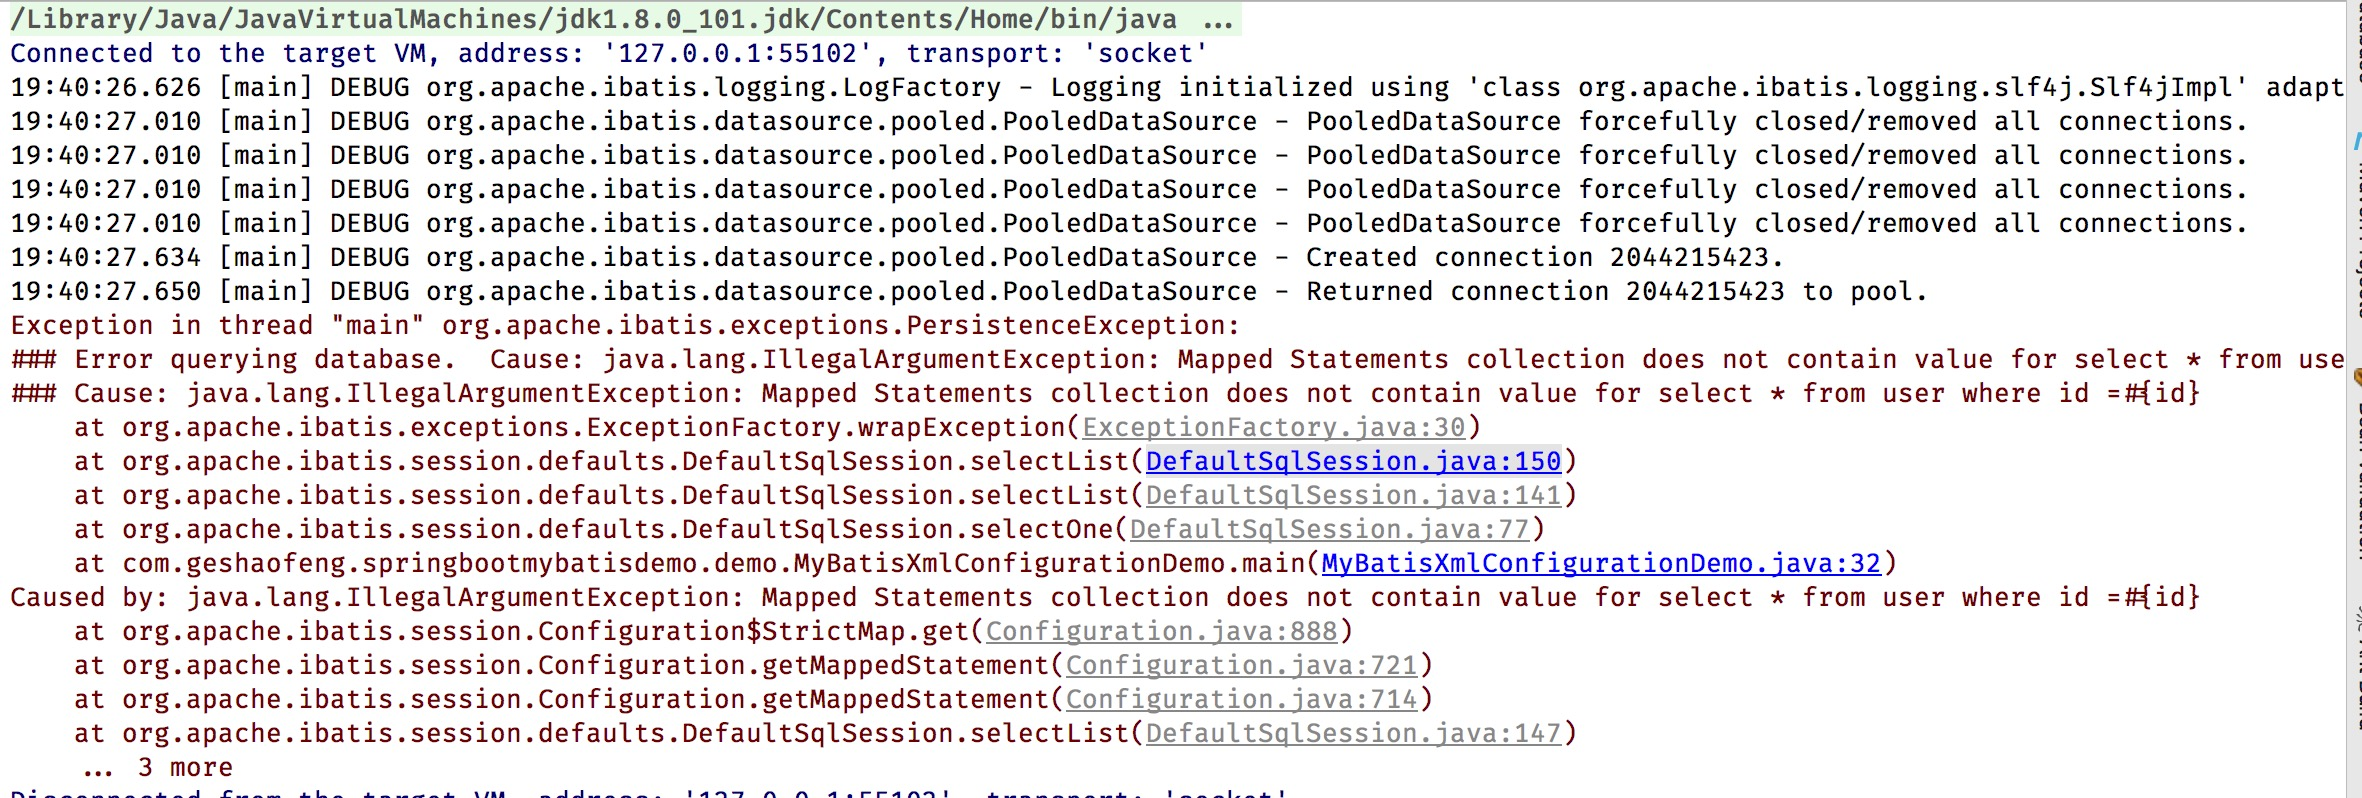
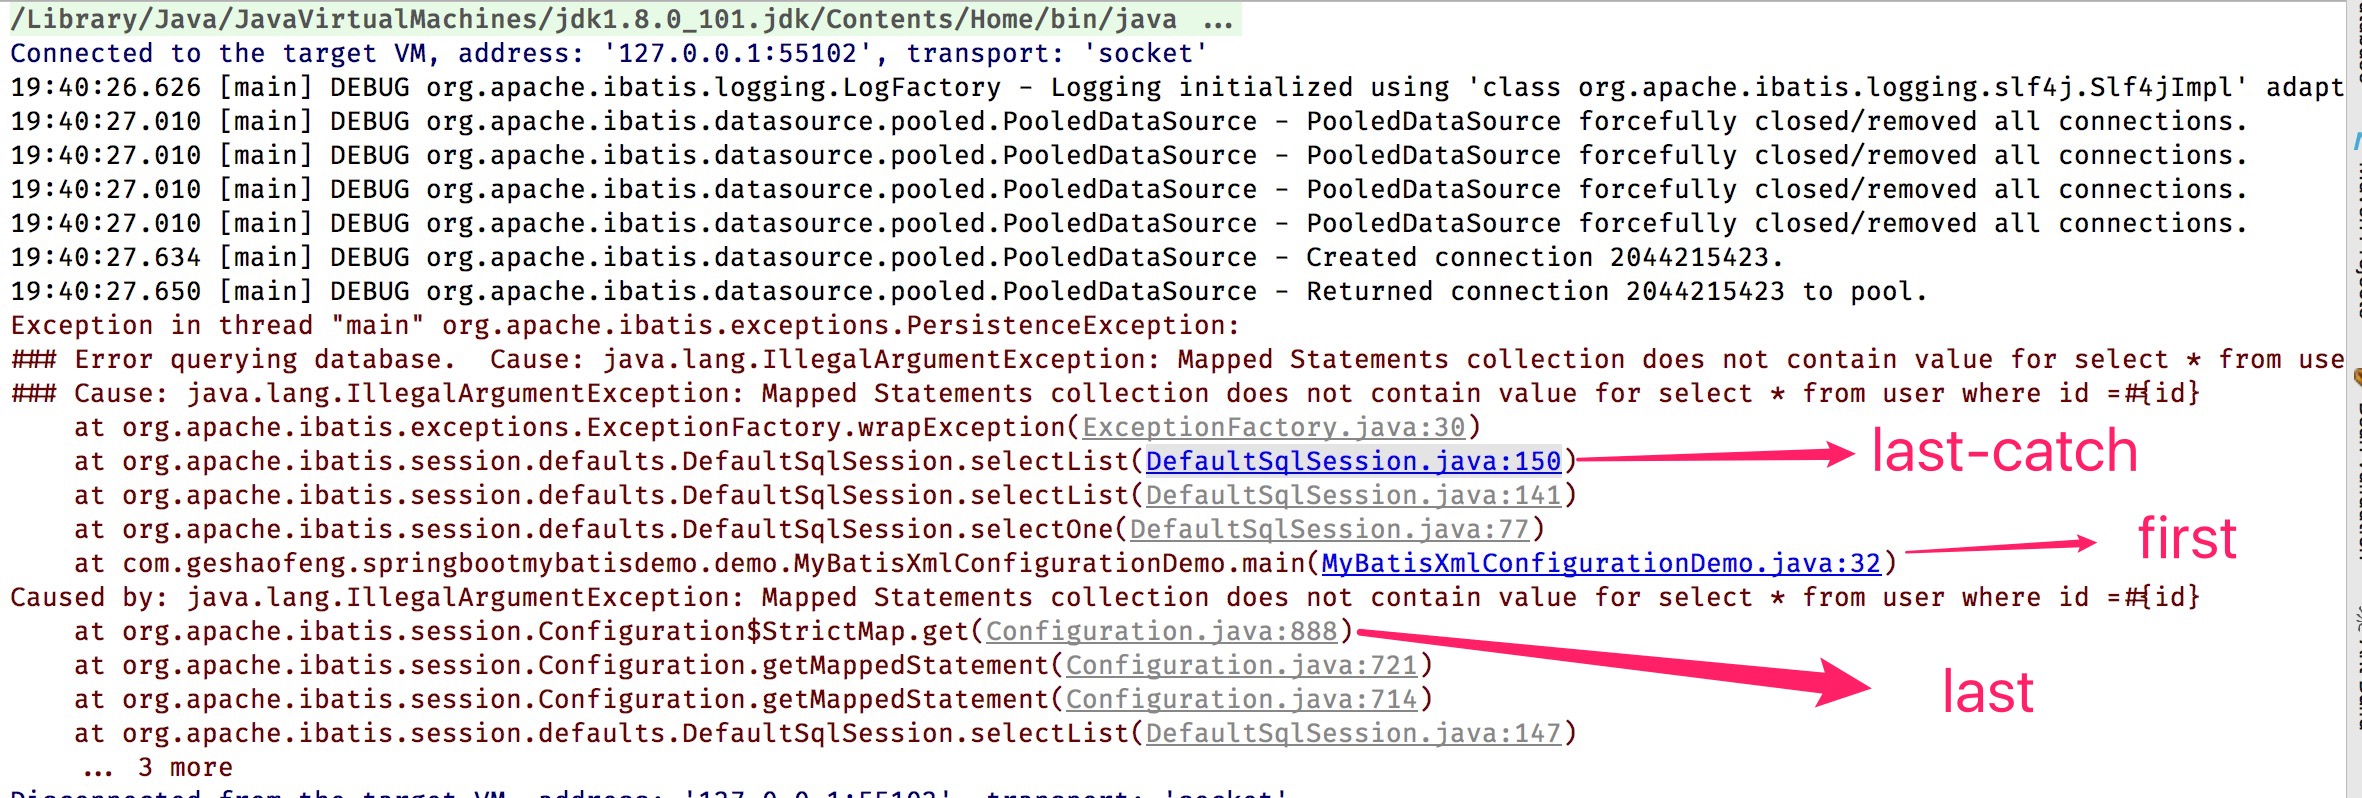
feature(mybatis)   --通过异常步骤，看出代码调用。   --errorcontext中调用单例模式

diff --git a/README.md b/README.md
@@ -1,1 +1,72 @@
 # technology-demo
+
+>1-01 的代码在分支 feature/1-01上，依次类推
+
+### 1-01
+
+<img src="https://raw.githubusercontent.com/Maybrittnelson/technology-demo/master/springboot-mybatis-demo/img/exception.jpg" width="80%">
+
+#### 行者常至
+
+**运行对应分支上的代码，出现如上异常**
+
+* 通过异常打印顺序可知
+  * 调用方法顺序为：最先**first**，最后调用的是**last**
+  * 异常抛出在**last**，捕获在**last-catch**
+
+#### 处处留心皆学问
+
+* 截取**last-catch**代码片段，观看1->3
+
+```java
+  @Override
+  public <E> List<E> selectList(String statement, Object parameter, RowBounds rowBounds) {
+    try {
+      MappedStatement ms = configuration.getMappedStatement(statement);
+      return executor.query(ms, wrapCollection(parameter), rowBounds, Executor.NO_RESULT_HANDLER);
+    } catch (Exception e) {
+      //1
+      throw ExceptionFactory.wrapException("Error querying database.  Cause: " + e, e);
+    } finally {
+      ErrorContext.instance().reset();
+    }
+  }
+
+
+public class ExceptionFactory {
+  private ExceptionFactory() {
+    // Prevent Instantiation
+  }
+
+  public static RuntimeException wrapException(String message, Exception e) {
+      //2
+    return new PersistenceException(ErrorContext.instance().message(message).cause(e).toString(), e);
+  }
+}
+
+public class ErrorContext {
+  private static final ThreadLocal<ErrorContext> LOCAL = new ThreadLocal<ErrorContext>();
+
+  private ErrorContext stored;
+  private String resource;
+  private String activity;
+  private String object;
+  private String message;
+  private String sql;
+  private Throwable cause;
+
+  private ErrorContext() {
+  }
+
+  public static ErrorContext instance() {
+    //3 单利模式
+    ErrorContext context = LOCAL.get();
+    if (context == null) {
+      context = new ErrorContext();
+      LOCAL.set(context);
+    }
+    return context;
+  }
+
+```
+
